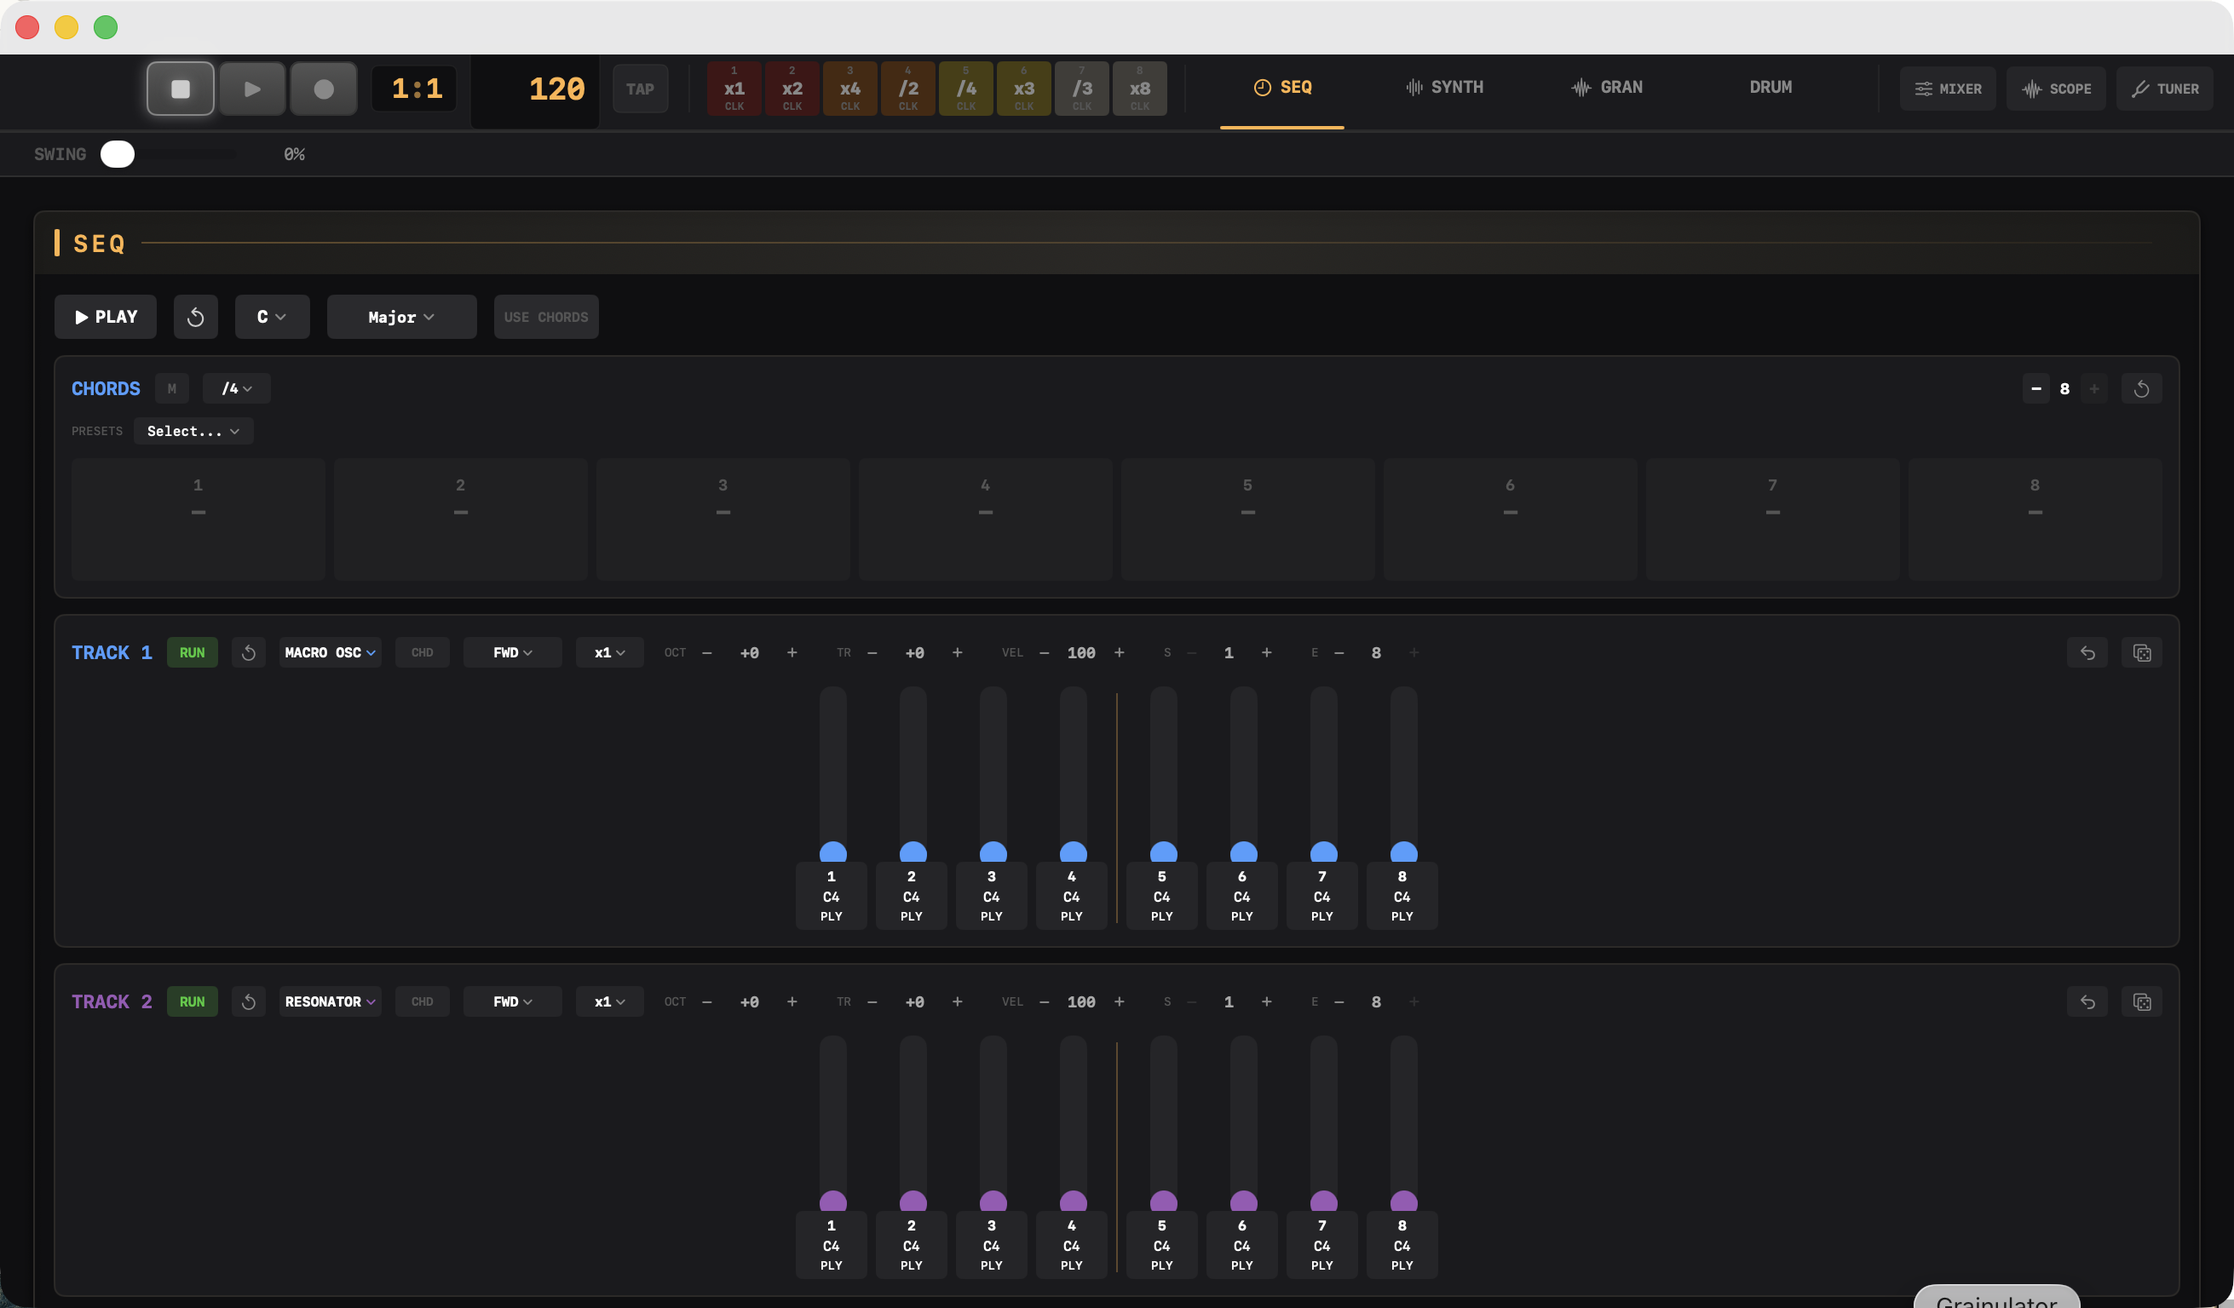
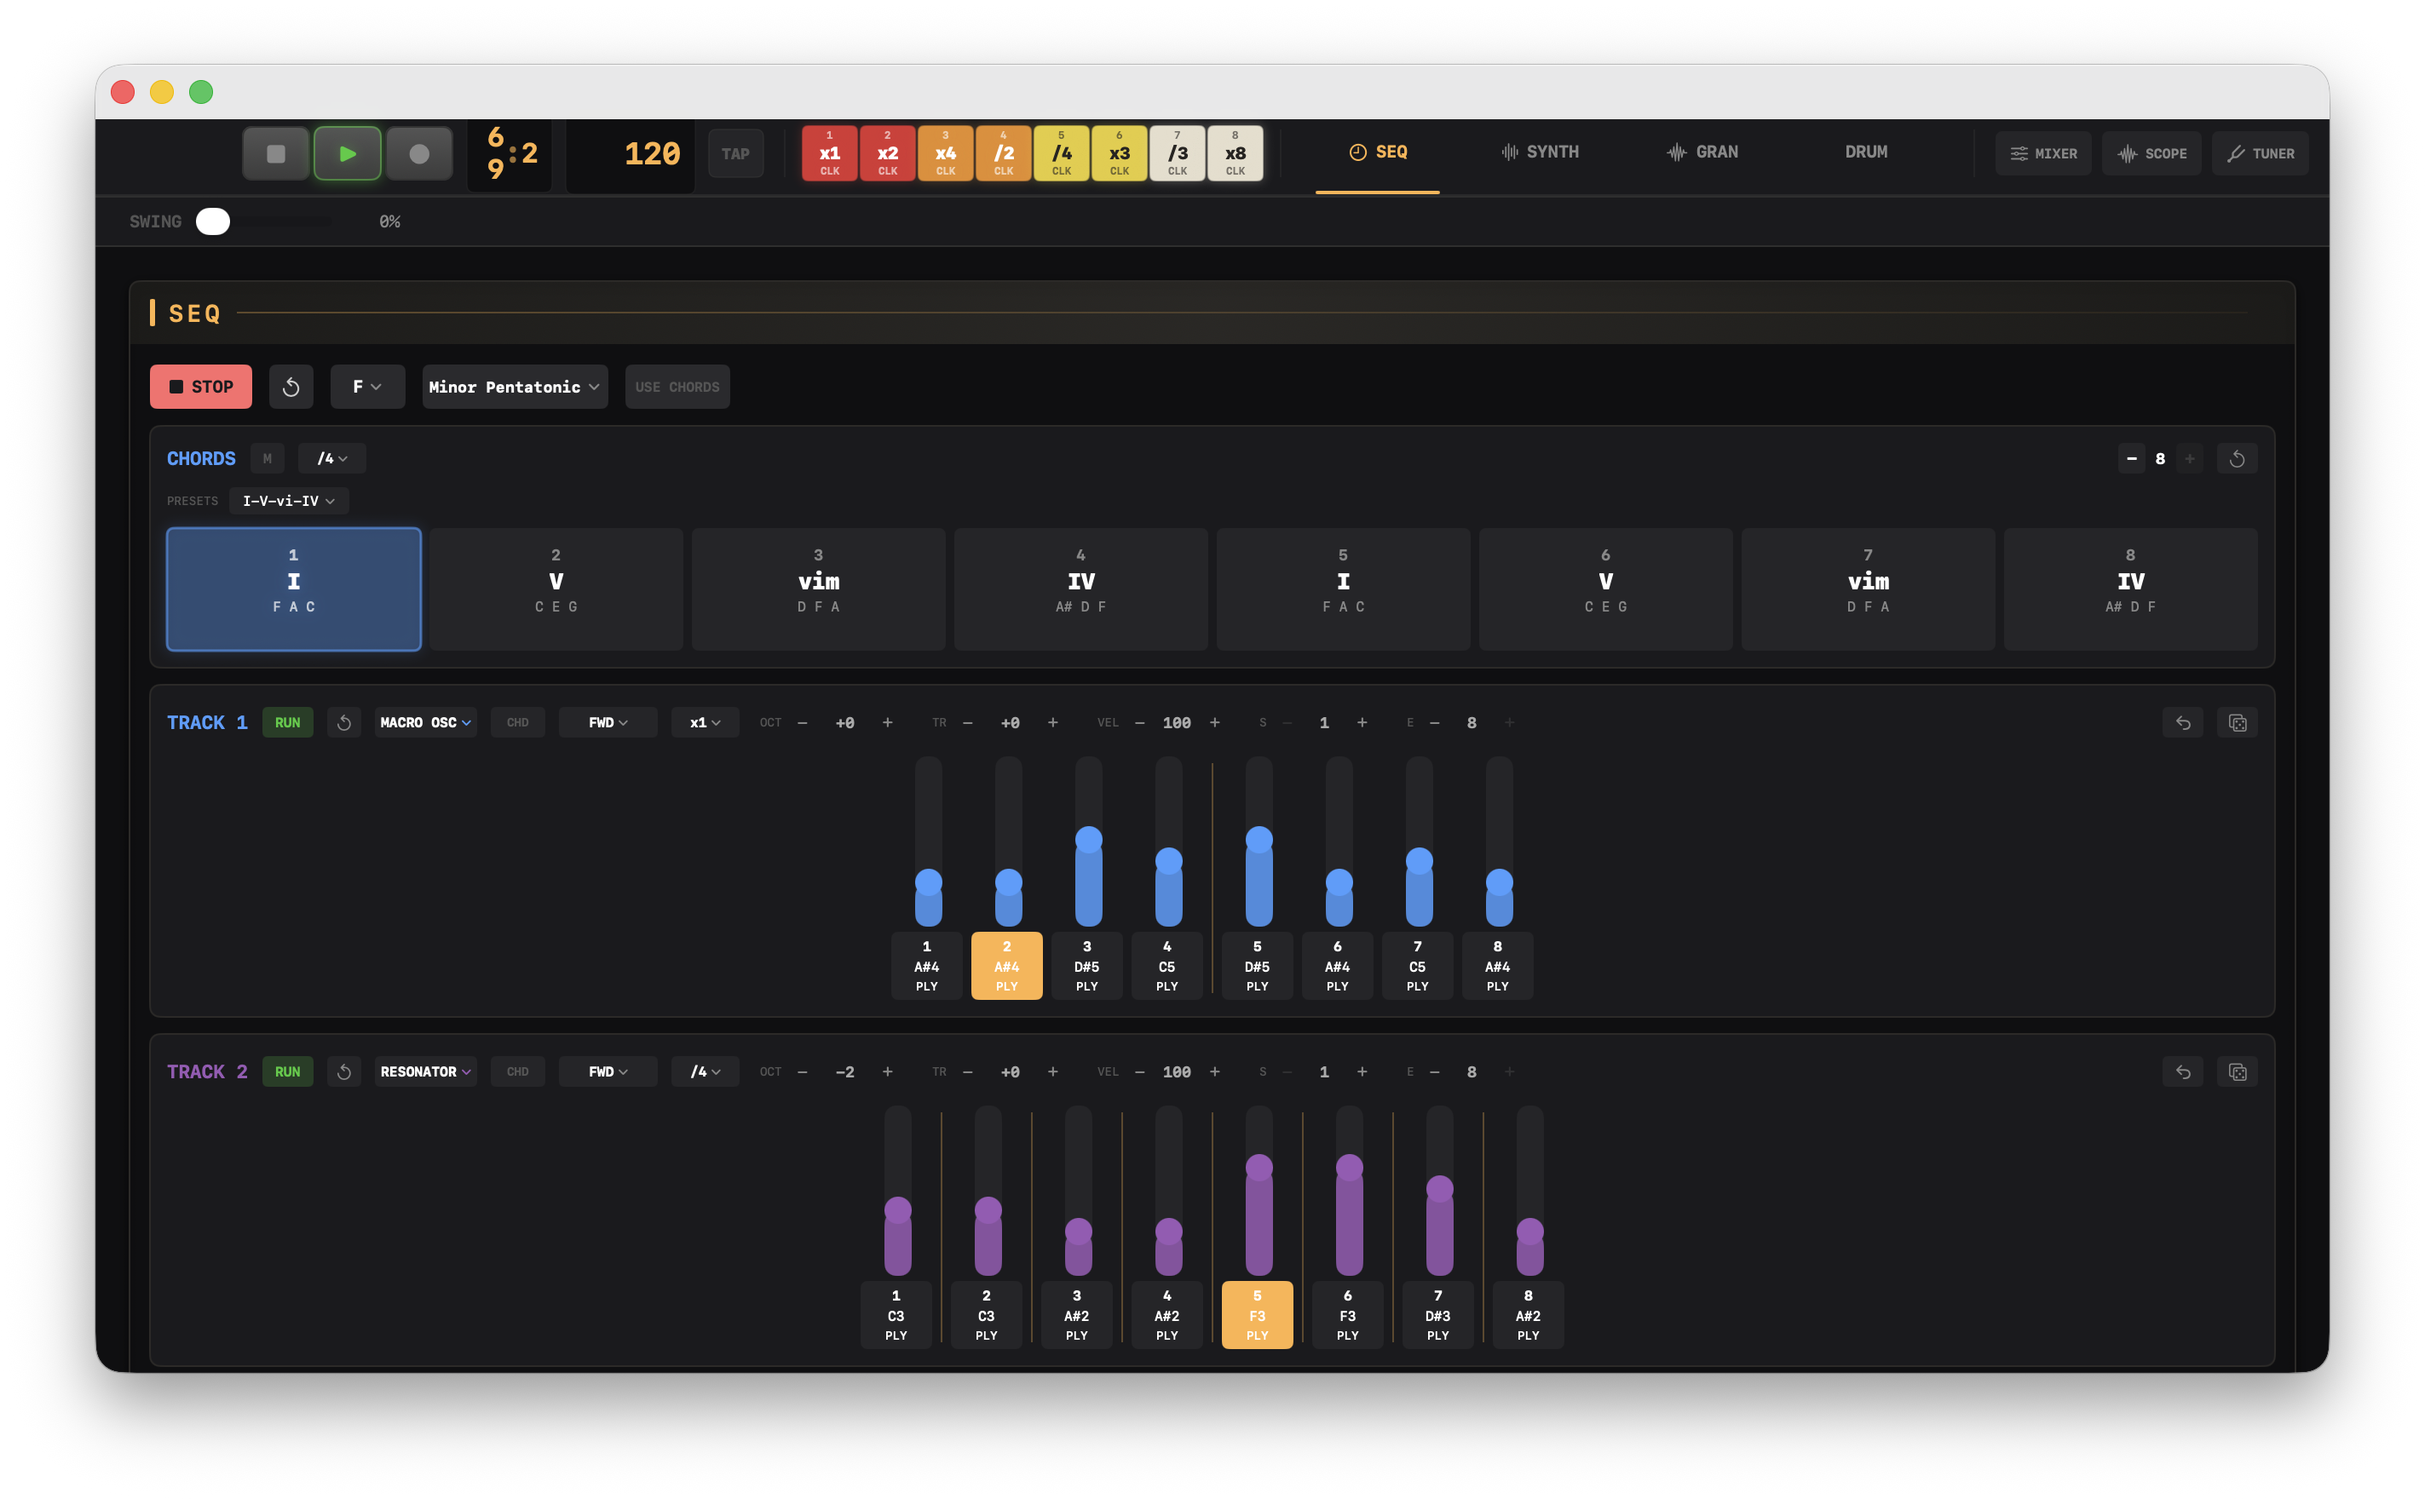
Update screenshots with richer app states and add Slicer + Drum Sequencer views
Replace Sequencer and Granular screenshots with versions showing active
chord progressions and loaded audio. Add two new gallery entries for the
Slicer and Drum Sequencer views.

diff --git a/components/Screenshots.tsx b/components/Screenshots.tsx
@@ -1,10 +1,12 @@
 import Image from "next/image";
 
 const screenshots = [
-  { label: "Sequencer", file: "screenshot-1.png", width: 2622, height: 1536 },
+  { label: "Sequencer", file: "screenshot-1.png", width: 2846, height: 1760 },
   { label: "Synth Engines", file: "screenshot-2.png", width: 2622, height: 1536 },
-  { label: "Granular", file: "screenshot-3.png", width: 2622, height: 1536 },
+  { label: "Granular", file: "screenshot-3.png", width: 2846, height: 1760 },
   { label: "Mixer", file: "screenshot-4.png", width: 1900, height: 1048 },
+  { label: "Slicer", file: "screenshot-5.png", width: 2968, height: 1760 },
+  { label: "Drum Sequencer", file: "screenshot-6.png", width: 2968, height: 1760 },
 ];
 
 export default function Screenshots() {
